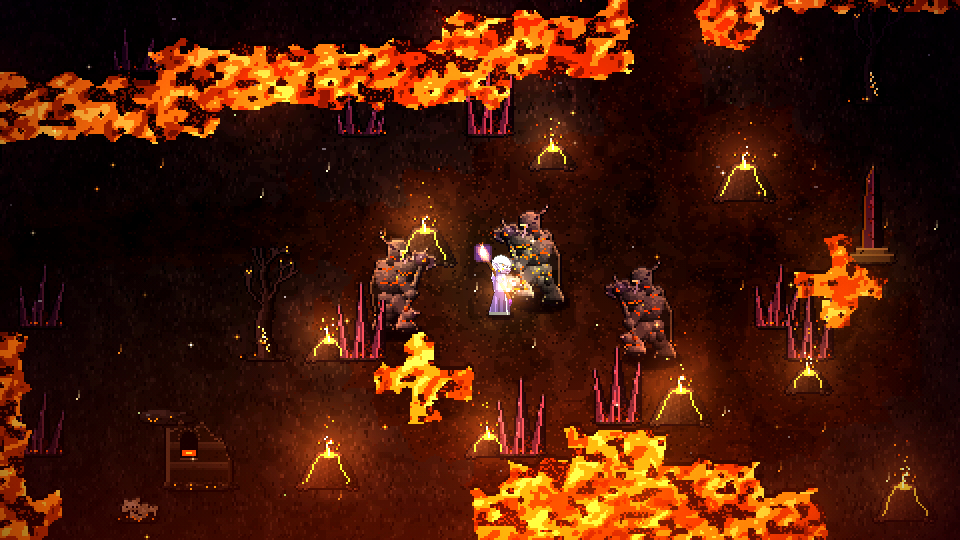
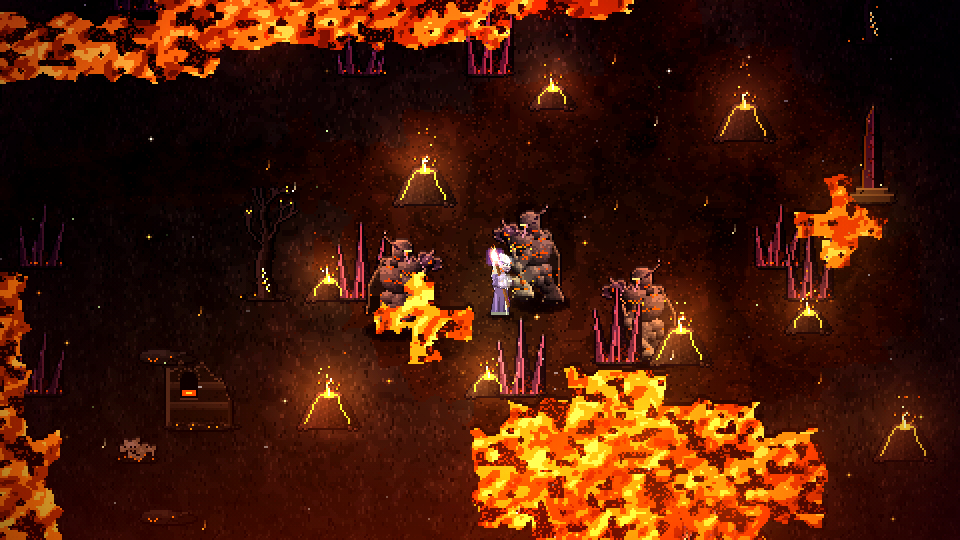
Startseite: Weltbilder Aschethron und Glutöde neu
Claude-Session: https://claude.ai/code/session_014aqaTMnYkSHnqjxvGLxyGo

diff --git a/site/welt.html b/site/welt.html
@@ -90,7 +90,7 @@
           <figcaption><h4>Die Reifhöhlen</h4><span>Dungeon · Stufe 35–37</span><p>Kristallspinnen, gefrorene Ritter und Skalvyr, einst Wächter dieser Berge.</p></figcaption></figure>
       </li>
       <li class="pair">
-        <figure data-zoom="Die Glutöde · Stufe 36–40"><span class="frame"><img style="--fx:0.52;--fy:0.55" class="px shot" src="img/welt-gluetoede.webp" alt="Glutmagierin zwischen Schlackenrittern in der Glutöde" width="960" height="540" loading="lazy"></span>
+        <figure data-zoom="Die Glutöde · Stufe 36–40"><span class="frame"><img style="--fx:0.52;--fy:0.5" class="px shot" src="img/welt-gluetoede.webp" alt="Glutmagierin zwischen Schlackenrittern in der Glutöde" width="960" height="540" loading="lazy"></span>
           <figcaption><h4>Die Glutöde</h4><span>Stufe 36–40</span><p>Aschegeister und Schlackenritter vor der letzten Bastion.</p></figcaption></figure>
         <figure data-zoom="Der Aschethron · Stufe 38–40"><span class="frame"><img style="--fx:0.46;--fy:0.42" class="px shot" src="img/welt-aschethron.webp" alt="Malgareth holt mit seiner Flammenklinge gegen einen Krieger aus" width="960" height="540" loading="lazy"></span>
           <figcaption><h4>Der Aschethron</h4><span>Dungeon · Stufe 38–40</span><p>Malgareth wartet. Die Flammenkrone liegt auf seinem Haupt.</p></figcaption></figure>
